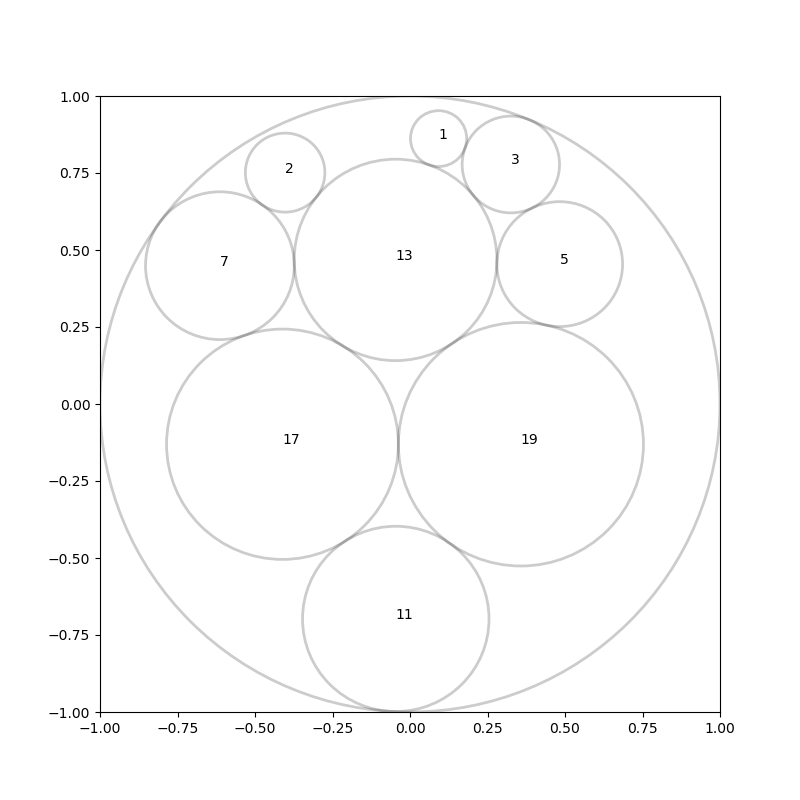
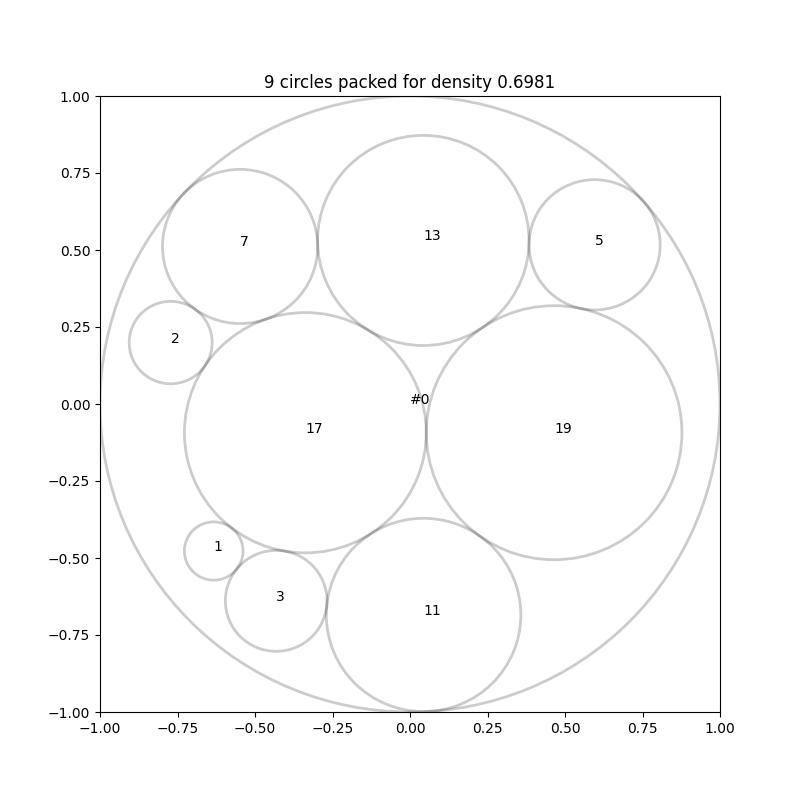
Updated documentation

diff --git a/README.rst b/README.rst
@@ -25,7 +25,7 @@ circlify
 
 Pure Python implementation of circle packing layout algorithm.
 
-Circles are first arranged via a version of A1.0 by Huang et al (see https://home.mis.u-picardie.fr/~cli/Publis/circle.pdf for details) and then enclosed in a circle created around them using Matoušek-Sharir-Welzl algorithm used in d3js (see https://beta.observablehq.com/@mbostock/miniball, http://www.inf.ethz.ch/personal/emo/PublFiles/SubexLinProg_ALG16_96.pdf, and https://github.com/d3/d3-hierarchy/blob/master/src/pack/enclose.js)
+Circles are first arranged with a euristic inspired by the A1.0 of [Huang-2006]_, then enclosed in a circle created around them using [MSW-1996]_ algorithm used in [Bostock-2017]_.  I hope to implement A1.5 at some point in the future but the results are good enough for my use case.
 
 Installation
 ------------
@@ -70,15 +70,15 @@ Example
     >>> circles = circ.circlify([19, 17, 13, 11, 7, 5, 3, 2, 1], show_enclosure=True)
     >>> pp(circles)
     [Circle(x=0.0, y=0.0, r=1.0, level=0, ex=None),
-     Circle(x=0.09222041925800777, y=0.8617116738294696, r=0.09068624109026069, level=1, ex={'datum': 1}),
-     Circle(x=-0.40283175658099674, y=0.7512387781681531, r=0.12824971207048294, level=1, ex={'datum': 2}),
-     Circle(x=0.3252787490004198, y=0.7776370388468007, r=0.15707317711577193, level=1, ex={'datum': 3}),
-     Circle(x=0.48296614887228806, y=0.4541723195782383, r=0.20278059970175755, level=1, ex={'datum': 5}),
-     Circle(x=-0.6132109517981927, y=0.4490810687795324, r=0.23993324126007678, level=1, ex={'datum': 7}),
-     Circle(x=-0.045884607890591435, y=-0.6977206243364218, r=0.3007722353441051, level=1, ex={'datum': 11}),
-     Circle(x=-0.04661299415374866, y=0.4678014425767657, r=0.32697389223002427, level=1, ex={'datum': 13}),
-     Circle(x=-0.411432317820337, y=-0.13064957525245907, r=0.3739089508053733, level=1, ex={'datum': 17}),
-     Circle(x=0.35776879346704843, y=-0.13064957525245907, r=0.39529216048201216, level=1, ex={'datum': 19})]
+     Circle(x=-0.633232604611031, y=-0.47732413442115296, r=0.09460444572843042, level=1, ex={'datum': 1}),
+     Circle(x=-0.7720311587589236, y=0.19946176418549022, r=0.13379089020993573, level=1, ex={'datum': 2}),
+     Circle(x=-0.43168871955473165, y=-0.6391381648617572, r=0.16385970662353394, level=1, ex={'datum': 3}),
+     Circle(x=0.595447603036083, y=0.5168251295666467, r=0.21154197162246005, level=1, ex={'datum': 5}),
+     Circle(x=-0.5480911056188739, y=0.5115139053491098, r=0.2502998363185337, level=1, ex={'datum': 7}),
+     Circle(x=0.043747233552068686, y=-0.6848366902134195, r=0.31376744998074435, level=1, ex={'datum': 11}),
+     Circle(x=0.04298737651230445, y=0.5310431146935967, r=0.34110117996070605, level=1, ex={'datum': 13}),
+     Circle(x=-0.3375943908160698, y=-0.09326467617622711, r=0.39006412239133215, level=1, ex={'datum': 17}),
+     Circle(x=0.46484095011516874, y=-0.09326467617622711, r=0.4123712185399064, level=1, ex={'datum': 19})]
 
 
 A simple matplotlib representation. See ``circlify.bubbles`` helper function (requires ``matplotlib``):
@@ -102,17 +102,17 @@ Starting with version 0.10, circlify also handle hierarchical input so that:
     >>> circles = circ.circlify(data, show_enclosure=True)
     >>> pp(circles)
     [Circle(x=0.0, y=0.0, r=1.0, level=0, ex=None),
-     Circle(x=-0.565803075997749, y=0.41097786651145324, r=0.18469903125906464, level=1, ex={'datum': 0.05}),
-     Circle(x=-0.3385727489559141, y=0.7022188441650276, r=0.18469903125906464, level=1, ex={'id': 'a2', 'datum': 0.05}),
+     Circle(x=-0.5658030759977484, y=0.4109778665114514, r=0.18469903125906464, level=1, ex={'datum': 0.05}),
+     Circle(x=-0.5658030759977484, y=-0.4109778665114514, r=0.18469903125906464, level=1, ex={'id': 'a2', 'datum': 0.05}),
      Circle(x=-0.7387961250362587, y=0.0, r=0.2612038749637415, level=1, ex={'id': 'a1', 'datum': 0.1, 'children': [{'id': 'a1_1', 'datum': 0.05}, {'datum': 0.04}, 0.01]}),
      Circle(x=0.2612038749637414, y=0.0, r=0.7387961250362586, level=1, ex={'id': 'a0', 'datum': 0.8, 'children': [0.3, 0.2, 0.2, 0.1]}),
-     Circle(x=-0.7567888163564136, y=0.14087823651338607, r=0.0616618704777984, level=2, ex={'datum': 0.01}),
+     Circle(x=-0.7567888163564135, y=0.1408782365133844, r=0.0616618704777984, level=2, ex={'datum': 0.01}),
      Circle(x=-0.8766762590444033, y=0.0, r=0.1233237409555968, level=2, ex={'datum': 0.04}),
      Circle(x=-0.6154723840806618, y=0.0, r=0.13788013400814464, level=2, ex={'id': 'a1_1', 'datum': 0.05}),
-     Circle(x=0.6664952237042423, y=0.3369290873460549, r=0.2117455702848763, level=2, ex={'datum': 0.1}),
-     Circle(x=-0.11288314691830154, y=-0.230392881357073, r=0.2994534572692975, level=2, ex={'datum': 0.2}),
-     Circle(x=0.15631936804871832, y=0.30460197676548245, r=0.2994534572692975, level=2, ex={'datum': 0.2}),
-     Circle(x=0.5533243963620484, y=-0.230392881357073, r=0.36675408601105247, level=2, ex={'datum': 0.3})]
+     Circle(x=0.6664952237042414, y=0.33692908734605553, r=0.21174557028487648, level=2, ex={'datum': 0.1}),
+     Circle(x=-0.1128831469183017, y=-0.23039288135707192, r=0.29945345726929773, level=2, ex={'datum': 0.2}),
+     Circle(x=0.1563193680487183, y=0.304601976765483, r=0.29945345726929773, level=2, ex={'datum': 0.2}),
+     Circle(x=0.5533243963620487, y=-0.23039288135707192, r=0.3667540860110527, level=2, ex={'datum': 0.3})]
 
 
 A simple matplotlib representation. See ``circlify.bubbles`` helper function (requires ``matplotlib``):
@@ -123,3 +123,12 @@ A simple matplotlib representation. See ``circlify.bubbles`` helper function (re
 *Note* that the area of the circles are proportional to the values passed in input only if the circles are at the same hierarchical level.
 For instance: circles *a1_1* and *a2* both have a value of 0.05, yet *a1_1* is smaller than *a2* because *a1_1* is fitted within its parent circle *a1* one level below the level of *a2*.
 In other words, the level 1 circles *a1* and *a2* are both proportional to their respective values but *a1_1* is proportional to the values on level 2 witin *a1*.
+
+.. [Huang-2006]
+   WenQi HUANG, Yu LI, ChuMin LI, RuChu XU, New Heuristics for Packing Unequal Circles into a Circular Container, https://home.mis.u-picardie.fr/~cli/Publis/circle.pdf
+
+.. [Bostock-2017]
+    Mike Bostock, D3.js, https://beta.observablehq.com/@mbostock/miniball, https://beta.observablehq.com/@mbostock/miniball
+
+.. [MSW-1996]
+   J. Matoušek, M. Sharir, and E. Welzl. A Subexponential Bound For Linear Programming. Algorithmica, 16(4/5):498–516, October/November 1996, http://www.inf.ethz.ch/personal/emo/PublFiles/SubexLinProg_ALG16_96.pdf
